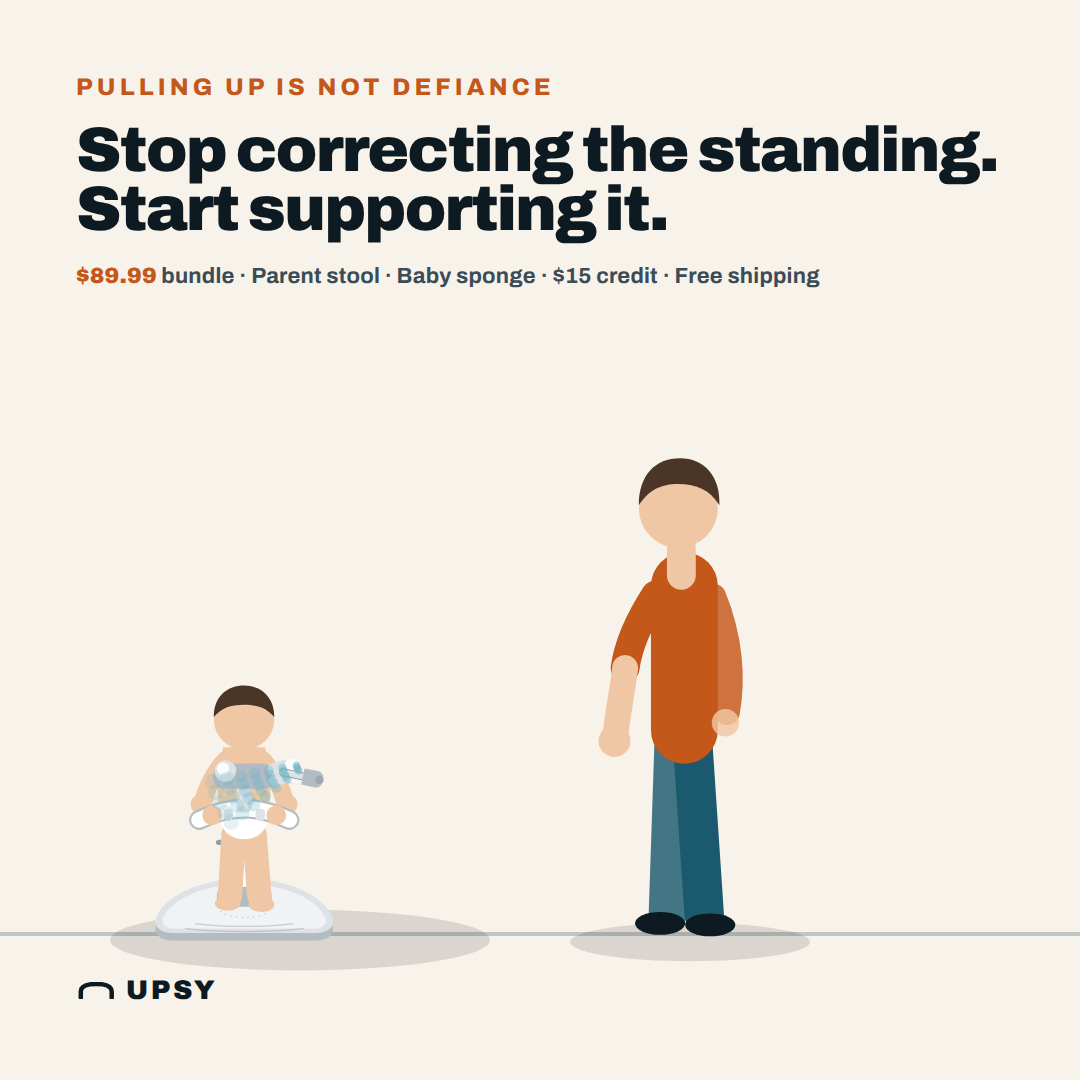
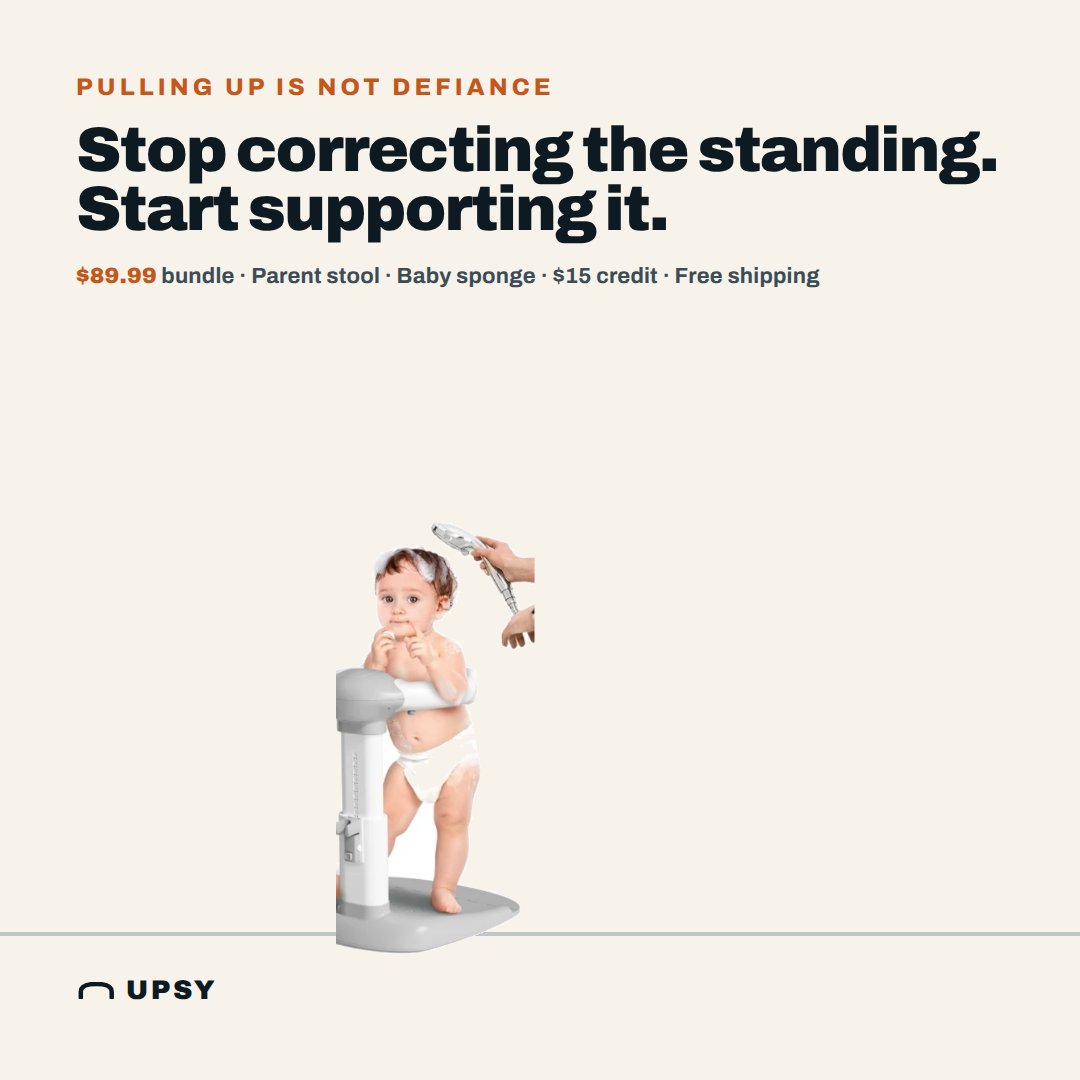
Use the real product photo across the set
Adds build/cutout.mjs, which cuts the supplied product photo into two
transparent-background assets: the frame alone, and the frame with the
child and the adult's hands on the shower head. It floods the white
background inward from the border instead of thresholding on brightness,
so the product's white plastic and the soap foam survive, and a small
morphological closing seals the channels the flood leaks through. The
baked-in drop shadow is kept deliberately - its luminance overlaps real
product tones, so no threshold separates them, and it reads correctly on
light grounds.

Layouts are now photo-aware. The photo contains a real child and a real
adult, so no illustrated parent is drawn beside it. Five ads stay fully
illustrated because a parent's body is the argument and no photo of one
exists; they are flagged vector:true. On dark grounds the photo sits on a
light card so its shadow reads as part of the card.

Claude-Session: https://claude.ai/code/session_01P3T8QoDccduH4LvnTyU1qk

Changed region(s): [[0.0917, 0.4889, 0.5194, 0.9167], [0.5194, 0.4278, 0.7639, 0.9167]]

diff --git a/build/layouts.js b/build/layouts.js
@@ -22,9 +22,8 @@ export function hero(c) {
   ${S.svg(`
     ${bg}
     ${c.stall ? '' : S.floorLine(floor)}
-    ${S.shadow(300, floor + 6, 190)}
-    ${S.shadow(690, floor + 8, 120)}
-    ${S.sceneParentChild({ x: 150, floor, k: c.k || 0.62, gap: c.gap || 330, wand: true, water: c.water !== false })}
+    ${A.hasPhoto() ? '' : `${S.shadow(300, floor + 6, 190)}${S.shadow(690, floor + 8, 120)}`}
+    ${S.sceneParentChild({ x: 150, floor, k: c.k || 0.62, gap: c.gap || 330, wand: true, water: c.water !== false, vector: c.vector })}
   `)}
   ${abs(`left:${P}px;top:${P}px;right:${P}px`, `
     ${eyebrow(c.eyebrow)}
@@ -55,7 +54,7 @@ export function beforeAfter(c) {
     ${c.beforeArt === 'bin'
       ? S.childInBin({ x: 150, floor, k: 0.66, kneel: true })
       : S.childInTub({ x: 96, floor, k: 0.60 })}
-    ${S.sceneParentChild({ x: 596, floor, k: 0.56, gap: 268, wand: true })}
+    ${S.sceneParentChild({ x: 596, floor, k: 0.56, gap: 268, wand: true, vector: c.vector })}
   `)}
   ${abs(`left:${P}px;top:${P}px;right:${P}px`, `
     ${eyebrow(c.eyebrow)}
@@ -80,14 +79,14 @@ export function usVsThem(c) {
     <circle cx="778" cy="${floor - 190}" r="236" fill="${C.tealLt}" opacity=".6"/>
     ${S.floorLine(floor, 60, 1020)}
     ${S.shadow(286, floor + 6, 168, 26, .11)}
-    ${S.shadow(790, floor + 6, 148, 24, .11)}
+    ${A.hasPhoto() ? '' : S.shadow(790, floor + 6, 148, 24, .11)}
     <!-- generic, unbranded infant tub -->
     <g transform="translate(${286 - (420 * 0.62) / 2},${floor - S.ITUB_H * 0.62}) scale(0.62)">
       ${A.infantTub({ fill: C.prodLo })}
     </g>
-    <g transform="translate(618,${floor - S.PROD_H * 0.44}) scale(0.44)">${A.upsyWithChild({ wand: true })}</g>
-    ${S.shadow(910, floor + 5, 76, 13, .10)}
-    <g transform="translate(830,${floor - S.ADULT_H * 0.50}) scale(0.50)">${A.adultUpright()}</g>
+    <g transform="translate(${A.hasPhoto() ? 640 : 618},${floor - S.PROD_H * (A.hasPhoto() ? 0.56 : 0.44)}) scale(${A.hasPhoto() ? 0.56 : 0.44})">${A.upsyWithChild({ wand: true })}</g>
+    ${A.hasPhoto() ? '' : `${S.shadow(910, floor + 5, 76, 13, .10)}
+    <g transform="translate(830,${floor - S.ADULT_H * 0.50}) scale(0.50)">${A.adultUpright()}</g>`}
     <!-- divider -->
     <line x1="540" y1="${floor - 430}" x2="540" y2="${floor + 30}" stroke="${C.prodEdge}" stroke-width="3" stroke-dasharray="3 12" opacity=".7"/>
   `)}
@@ -133,8 +132,9 @@ export function mechanism(c) {
     ${S.floorLine(floor, 76, 1004)}
     ${S.shadow(470, floor + 5, 172, 26, .10)}
     ${S.shadow(126, floor + 5, 74, 13, .10)}
-    <!-- adult present, close and attending (brief §5) -->
-    <g transform="translate(30,${floor - S.ADULT_H * ak}) scale(${ak})">${A.adultUpright()}</g>
+    <!-- adult present, close and attending (brief §5).
+         With the real photo the adult's hands are already in the shot. -->
+    ${A.hasPhoto() ? '' : `<g transform="translate(30,${floor - S.ADULT_H * ak}) scale(${ak})">${A.adultUpright()}</g>`}
     <g transform="translate(${px},${py}) scale(${k})">${A.upsyWithChild({ wand: true })}</g>
     ${leaders}
   `)}
@@ -160,7 +160,7 @@ export function avatarCallout(c) {
     <rect x="0" y="0" width="1080" height="336" fill="${C.ink}"/>
     ${c.stall ? `<g transform="translate(0,336)"><svg width="1080" height="${floor + 150 - 336}" viewBox="0 0 1080 ${floor + 150 - 336}">${A.showerStall(1080, floor + 150 - 336)}</svg></g>` : S.floorLine(floor)}
     ${S.shadow(330, floor + 6, 175, 26, .12)}
-    ${S.sceneParentChild({ x: 190, floor, k: 0.58, gap: 320, wand: true })}
+    ${S.sceneParentChild({ x: 190, floor, k: 0.58, gap: 320, wand: true, vector: c.vector })}
   `)}
   ${abs(`left:${P}px;top:${P - 12}px;right:${P}px`, `
     ${eyebrow(c.callOut ? 'If this is your bathroom' : c.eyebrow, { color: C.terraLt })}
@@ -178,17 +178,21 @@ export function avatarCallout(c) {
 export function typographic(c) {
   const bg = c.bg || C.ink;
   const fg = c.fg || C.cream;
-  const ax = c.artX !== undefined ? c.artX : 660;
-  const ak = c.artK || 0.54;
+  const photoArt = A.hasPhoto() && !c.vector;
+  const ax = photoArt ? 613 : (c.artX !== undefined ? c.artX : 660);
+  const ak = photoArt ? 0.78 : (c.artK || 0.54);
   const art = c.art === 'product'
-    ? `<g transform="translate(${ax},${1080 - S.PROD_H * ak - (c.artBottom || 40)}) scale(${ak})">${A.upsyWithChild({ wand: true, ghost: c.ghost })}</g>`
+    ? `<g transform="translate(${ax},${1080 - S.PROD_H * ak - (photoArt ? 144 : (c.artBottom || 40))}) scale(${ak})">${A.upsyWithChild({ wand: true, ghost: c.ghost, vector: c.vector })}</g>`
     : c.art === 'frame'
-      ? `<g transform="translate(${ax},${1080 - 540 * ak - (c.artBottom || 20)}) scale(${ak})" opacity=".92">${A.upsy({ wand: true, ghost: true })}</g>`
+      ? `<g transform="translate(${ax},${1080 - 540 * ak - (photoArt ? 150 : (c.artBottom || 20))}) scale(${ak})" opacity="${photoArt ? 1 : .92}">${A.upsy({ wand: true, ghost: !photoArt, vector: c.vector })}</g>`
       : '';
+  const onCard = A.hasPhoto() && !c.vector && c.art;
+  const cardW = 470, cardH = 470;
   return `
   ${S.svg(`
     <rect width="1080" height="1080" fill="${bg}"/>
     ${c.blob !== false ? `<circle cx="880" cy="200" r="230" fill="${c.blobColor || C.terra}" opacity="${c.blobOpacity || .22}"/>` : ''}
+    ${onCard ? `<rect x="${1080 - 76 - cardW}" y="${1080 - 76 - cardH}" width="${cardW}" height="${cardH}" rx="34" fill="${C.cream}"/>` : ''}
     ${art}
   `)}
   ${abs(`left:${P}px;top:${c.top || P}px;right:${P}px`, `
@@ -210,8 +214,8 @@ export function splitDuo(c) {
     <rect x="540" y="0" width="540" height="1080" fill="${C.cream}"/>
     ${A.droplets(540, 1080, 26, C.waterDeep, 12)}
     <!-- left: child + water -->
-    ${S.shadow(268, 918, 176, 28, .13)}
-    <g transform="translate(24,${912 - S.PROD_H * 0.74}) scale(0.74)">${A.upsyWithChild({ wand: true })}</g>
+    ${A.hasPhoto() ? '' : S.shadow(268, 918, 176, 28, .13)}
+    <g transform="translate(24,${912 - S.PROD_H * 0.74}) scale(0.74)">${A.upsyWithChild({ wand: true, vector: c.vector })}</g>
     ${A.spray(432, 512, 158, 220)}
     <!-- right: dry parent -->
     ${S.shadow(806, 922, 132, 22, .13)}
@@ -247,7 +251,7 @@ export function posture(c) {
               ${30 + 366 * k} ${floor - 506 * k + 198 * k}"
           fill="none" stroke="${C.alert}" stroke-width="8" stroke-linecap="round" stroke-dasharray="1 16"/>
     <!-- AFTER: upright beside the frame -->
-    <g transform="translate(600,${floor - S.PROD_H * 0.42}) scale(0.42)">${A.upsyWithChild({ wand: true })}</g>
+    <g transform="translate(600,${floor - S.PROD_H * 0.42}) scale(0.42)">${A.upsyWithChild({ wand: true, vector: c.vector })}</g>
     <g transform="translate(830,${floor - S.ADULT_H * 0.62}) scale(0.62)">${A.adultUprightSil({ fill: C.teal })}</g>
     <!-- spine line, after: traced along the upright torso -->
     <line x1="${830 + 190 * 0.62}" y1="${floor - 712 * 0.62 + 250 * 0.62}"
@@ -308,7 +312,7 @@ export function numeric(c) {
   ${S.svg(`
     <rect width="1080" height="1080" fill="${C.cream}"/>
     <rect x="0" y="596" width="1080" height="6" fill="${C.prodEdge}" opacity=".45"/>
-    <g transform="translate(686,74) scale(0.80)">${A.upsy({ wand: true })}</g>
+    <g transform="translate(${A.hasPhoto() ? 700 : 686},${A.hasPhoto() ? 40 : 74}) scale(${A.hasPhoto() ? 0.62 : 0.80})">${A.upsy({ wand: true })}</g>
     ${A.suds(880, 470, 1.1)}
   `)}
   ${abs(`left:${P}px;top:${P}px;width:660px`, `
@@ -338,10 +342,12 @@ export function nativeCandid(c) {
         ${c.stall ? '' : `<rect y="${floor}" width="1080" height="160" fill="#F2F4F4"/>`}
       </svg>
     </g>
-    ${S.shadow(372, floor + 8, 210, 30, .14)}
-    <g transform="translate(150,${floor - S.PROD_H * 0.92}) rotate(-1.5 200 300) scale(0.92)">${A.upsyWithChild({ wand: true })}</g>
-    ${A.spray(636, 336, 158, 250)}
-    <g transform="translate(700,${floor - S.ADULT_H * 0.95}) scale(0.95)">${A.adultUpright()}</g>
+    ${A.hasPhoto() ? '' : S.shadow(372, floor + 8, 210, 30, .14)}
+    ${A.hasPhoto()
+      ? `<g transform="translate(300,${floor - S.PROD_H * 1.18}) scale(1.18)">${A.upsyWithChild({ wand: true })}</g>`
+      : `<g transform="translate(150,${floor - S.PROD_H * 0.92}) rotate(-1.5 200 300) scale(0.92)">${A.upsyWithChild({ wand: true })}</g>
+         ${A.spray(636, 336, 158, 250)}
+         <g transform="translate(700,${floor - S.ADULT_H * 0.95}) scale(0.95)">${A.adultUpright()}</g>`}
     ${A.droplets(1080, 900, 20, C.waterDeep, 33)}
     <!-- soft vignette so the caption band reads -->
     <rect x="0" y="${1080 - 268}" width="1080" height="268" fill="${C.ink}" opacity=".08"/>
@@ -378,8 +384,8 @@ export function stallDivide(c) {
     <rect x="${gx}" y="${floor}" width="${1080 - gx}" height="${1080 - floor}" fill="${C.creamDeep}"/>
     <line x1="${gx}" y1="${floor}" x2="1080" y2="${floor}" stroke="${C.prodEdge}" stroke-width="4" opacity=".5"/>
     <!-- child, inside -->
-    ${S.shadow(300, floor + 6, 150, 24, .13)}
-    <g transform="translate(122,${floor - S.PROD_H * 0.58}) scale(0.58)">${A.upsyWithChild({ wand: true })}</g>
+    ${A.hasPhoto() ? '' : S.shadow(300, floor + 6, 150, 24, .13)}
+    <g transform="translate(122,${floor - S.PROD_H * 0.58}) scale(0.58)">${A.upsyWithChild({ wand: true, vector: c.vector })}</g>
     ${A.spray(430, floor - 300, 154, 190)}
     <!-- glass panel + frame -->
     <rect x="${gx - 8}" y="0" width="16" height="1080" fill="${C.prodMd}"/>

diff --git a/build/art.js b/build/art.js
@@ -2,8 +2,16 @@ import { C } from './tokens.js';
 
 /* Real-photo override state (see setProductPhoto at the bottom of this file). */
 let PHOTO = { product: null, productChild: null };
-const photoBox = (href) =>
-  `<image href="${href}" x="0" y="-40" width="400" height="580" preserveAspectRatio="xMidYMax meet"/>`;
+const PHOTO_DIMS = { product: null, productChild: null };
+export function setPhotoDims(d) { Object.assign(PHOTO_DIMS, d); }
+/* Draw a photo asset bottom-anchored in the product's 400x540 local box,
+   at its true aspect ratio. h = how tall the asset should render locally. */
+const photoBox = (href, key, h) => {
+  const dim = PHOTO_DIMS[key];
+  const w = dim ? h * (dim.w / dim.h) : 400;
+  return `<image href="${href}" x="${200 - w / 2}" y="${540 - h}" width="${w}" height="${h}"/>`;
+};
+export function hasPhoto() { return !!(PHOTO.product || PHOTO.productChild); }
 
 /* ============================================================
    UPSY ART LIBRARY
@@ -15,8 +23,8 @@ const photoBox = (href) =>
 /* Local space 400 x 540. Origin top-left. Floor line y=520.
    Simplified, brand-accurate stand-in for the Upsy frame:
    wide triangular base + telescoping post + three-sided chest rail. */
-export function upsy({ wand = false, ghost = false } = {}) {
-  if (PHOTO.product) return photoBox(PHOTO.product);
+export function upsy({ wand = false, ghost = false, vector = false } = {}) {
+  if (PHOTO.product && !vector) return photoBox(PHOTO.product, 'product', 430);
   return `<g class="upsy">${upsyBase({ ghost })}${upsyRail({ wand, ghost })}</g>`;
 }
 
@@ -159,14 +167,14 @@ export function toddler({ tone = C.skin, hair = C.hair, dark = false, onBar = fa
    base + post BEHIND the child, chest rail IN FRONT.
    Shares the product's 400x540 local space; the child's head
    rises above y=0, which is intentional. */
-export function upsyWithChild({ wand = false, tone = C.skin, hair = C.hair, dark = false, ghost = false } = {}) {
-  if (PHOTO.productChild) return photoBox(PHOTO.productChild);
+export function upsyWithChild({ wand = false, tone = C.skin, hair = C.hair, dark = false, ghost = false, vector = false } = {}) {
+  if (PHOTO.productChild && !vector) return photoBox(PHOTO.productChild, 'productChild', 566);
   return `
   <g class="upsy-child">
-    ${PHOTO.product ? photoBox(PHOTO.product) : upsyBase({ ghost })}
+    ${upsyBase({ ghost })}
     <g transform="translate(44,-28) scale(1.235)">${toddler({ tone, hair, dark, onBar: true })}</g>
-    ${PHOTO.product ? '' : upsyRail({ wand, ghost })}
-    ${PHOTO.product ? '' : `
+    ${upsyRail({ wand, ghost })}
+    ${`
     <!-- the child's hands resting over the front of the bar -->
     <circle cx="132" cy="262" r="21" fill="${dark ? C.ink : tone}"/>
     <circle cx="268" cy="262" r="21" fill="${dark ? C.ink : tone}"/>`}

diff --git a/build/concepts.js b/build/concepts.js
@@ -133,7 +133,7 @@ export const CONCEPTS = [
   /* ---------- #6 · SA1 · Bathe your baby without getting in ---------- */
   { h: 6, c: 1, construction: 'producthero', layout: 'stallDivide', avatar: 1,
     lines: ['Bathe your baby without', 'getting in the shower.'], size: 74,
-    eyebrow: 'Off the wet tile', offer: 'bar',
+    eyebrow: 'Off the wet tile', offer: 'bar', vector: true,
     note: 'Spatial relationship is the message: child inside, parent outside — dressed, dry, upright, within arm’s reach.' },
 
   { h: 6, c: 2, construction: 'mechanism', layout: 'mechanism', avatar: 1,
@@ -147,7 +147,7 @@ export const CONCEPTS = [
     note: 'The docked wand is the supporting proof for the dry-parent promise.' },
 
   { h: 6, c: 3, construction: 'native', layout: 'stallDivide', avatar: 1,
-    lines: ['Bathe your baby without', 'getting in the shower.'], size: 52,
+    lines: ['Bathe your baby without', 'getting in the shower.'], size: 52, vector: true,
     quote: R.r5.hands, native: true, offer: false,
     note: 'The review that confirms the shower-head holder. Parent stays visibly present and within reach.' },
 
@@ -155,7 +155,7 @@ export const CONCEPTS = [
   /* Brief: brevity is the asset. No sub-headline, no feature list, no offer. */
   { h: 7, c: 1, construction: 'typographic', layout: 'splitDuo', avatar: 1,
     lines: ['They get clean.', 'You stay dry.'], size: 92,
-    offer: false,
+    offer: false, vector: true,
     note: 'Clean two-panel split: child and water on one side, dry parent on the other.' },
 
   { h: 7, c: 2, construction: 'typographic', layout: 'typographic', avatar: 1,
@@ -170,7 +170,7 @@ export const CONCEPTS = [
     note: 'Simplest photographic-style read of the split. No feature list.' },
 
   /* ---------- #8 · SA3 · Baby comes up. Your back stays straight. ---- */
-  { h: 8, c: 1, construction: 'beforeafter', layout: 'posture', avatar: 3,
+  { h: 8, c: 1, construction: 'beforeafter', layout: 'posture', avatar: 3, vector: true,
     lines: ['Baby comes up.', 'Your back stays straight.'], size: 78,
     eyebrow: 'It is the angle, not the weight',
     labelA: 'Folded over the rim', labelB: 'Standing up straight',

diff --git a/build/scenes.js b/build/scenes.js
@@ -8,14 +8,17 @@ export const svg = (inner, extra = '') =>
 export const ADULT_H = 712, PROD_H = 514, TUB_H = 300, BIN_H = 260, ITUB_H = 234;
 
 /* Parent standing upright + child in the frame, sharing a floor line. */
-export function sceneParentChild({ x = 0, floor = 900, k = 0.7, wand = true, water = true, gap = 300, dark = false } = {}) {
-  const pk = k * A.REL.productToAdult;
-  const px = x, py = floor - PROD_H * pk;
+export function sceneParentChild({ x = 0, floor = 900, k = 0.7, wand = true, water = true, gap = 300, dark = false, vector = false } = {}) {
+  const photo = A.hasPhoto() && !vector;
+  // The supplied photo already contains a real child AND an adult's hands on
+  // the shower head, so no illustrated parent is drawn beside it.
+  const pk = photo ? k * A.REL.productToAdult * 1.62 : k * A.REL.productToAdult;
+  const px = photo ? x + gap * 0.34 : x, py = floor - PROD_H * pk;
   const ax = x + gap, ay = floor - ADULT_H * k;
   return `
-    <g transform="translate(${px},${py}) scale(${pk})">${A.upsyWithChild({ wand, dark })}</g>
-    ${water ? A.spray(px + 340 * pk, py + 150 * pk, 156, 210 * pk) : ''}
-    <g transform="translate(${ax},${ay}) scale(${k})">${A.adultUpright()}</g>`;
+    <g transform="translate(${px},${py}) scale(${pk})">${A.upsyWithChild({ wand, dark, vector })}</g>
+    ${!photo && water ? A.spray(px + 340 * pk, py + 150 * pk, 156, 210 * pk) : ''}
+    ${photo ? '' : `<g transform="translate(${ax},${ay}) scale(${k})">${A.adultUpright()}</g>`}`;
 }
 
 /* Child standing unsupported in a tub, parent's hand steadying: the "before". */

diff --git a/README.md b/README.md
@@ -16,26 +16,51 @@ node build/build.mjs h05     # render a subset by filename fragment
 Output lands in `out/`, named per the brief:
 `upsy_h[01-10]_c[1-3]_[construction].png`
 
-## Swapping in the real product photo
+## The product photo
 
-Every ad uses a **vector stand-in** of the Upsy frame, redrawn from your product
-photo: wide triangular non-slip mat with the embossed grip ring, two-stage telescoping
-post with the height scale and lock lever, padded adjustable waist bar, and the grey
-shower-head cradle on top with the handheld head seated in it. Your product page
-(`cozybaby.shop/products/bath`) is blocked by this environment's network egress and the
-photo was never written to disk, so this is drawn by eye, not traced.
+The ads use **your real product photo**. `Screenshot 2026-08-28 024401.png` (committed
+at the repo root) is cut into two transparent-background assets by
+`build/cutout.mjs`:
 
-To swap in the real thing:
+| Asset | What it is |
+|---|---|
+| `build/assets/product.png` | the frame alone |
+| `build/assets/product-child.png` | the frame with the child, and the adult's hands on the shower head |
 
-1. Save a **transparent-background** cutout to `build/assets/product.png`
-   (frame alone) and optionally `build/assets/product-child.png` (frame with a child
-   in it).
-2. `npm run build`
+```bash
+node build/cutout.mjs "Screenshot 2026-08-28 024401.png"   # re-cut
+npm run build                                              # re-render
+```
 
-The renderer detects the files and drops them into the same 400×540 local box every
-layout already positions — scale, floor line and shadows all carry over. Nothing else
-changes. Note that `product-child.png` also replaces the illustrated child, so it must
-show an adult present if a child is visible (see Compliance below).
+The cutter floods the white background inward from the border rather than
+thresholding on brightness, so the product's own white plastic and the soap foam
+survive; a small morphological closing seals the channels the flood leaks through.
+The photo's baked-in drop shadow is **kept on purpose** — its luminance (218–241)
+overlaps real product tones (mat 182, diaper 214, cradle 235), so no threshold can
+separate them. It reads correctly as a shadow on light grounds.
+
+Replacing the photo later is just dropping new files at those two paths and
+rebuilding — or re-running the cutter against a new source image.
+
+### Where the photo is used, and where it is not
+
+The photo already contains a real child **and** an adult's hands, so wherever it
+appears no illustrated parent is drawn beside it — a photographic child next to a
+flat-illustrated adult reads badly, and the photo satisfies the brief's
+adult-present rule on its own.
+
+Five ads stay fully illustrated, flagged `vector: true` in `concepts.js`, because a
+**parent's body is the argument** and no photo of one exists:
+
+| Ad | Why |
+|---|---|
+| `upsy_h06_c1`, `upsy_h06_c3` | child inside the stall, parent outside — the spatial split is the message |
+| `upsy_h07_c1` | two-panel split: child and water vs. dry parent |
+| `upsy_h08_c1` | bent vs. upright posture, in silhouette |
+| `upsy_h09_c2` | tight crop on the child's grip and the parent's hands |
+
+On the four dark-ground typographic ads the photo sits on a light card, so its
+baked-in shadow reads as part of the card instead of a halo.
 
 ## The offer
 
@@ -290,6 +315,8 @@ build/
   layouts.js     12 layout constructions
   concepts.js    the 30 concept definitions + locked headlines
   reviews.js     the five real customer reviews + the excerpts used
+  cutout.mjs     cuts the product photo into transparent assets
+  assets/        product.png, product-child.png (generated)
   shell.js       HTML shell, embedded Archivo, shrink-to-fit headline pass
   render.mjs     Playwright screenshot loop
   build.mjs      entry point + locked-headline guard
